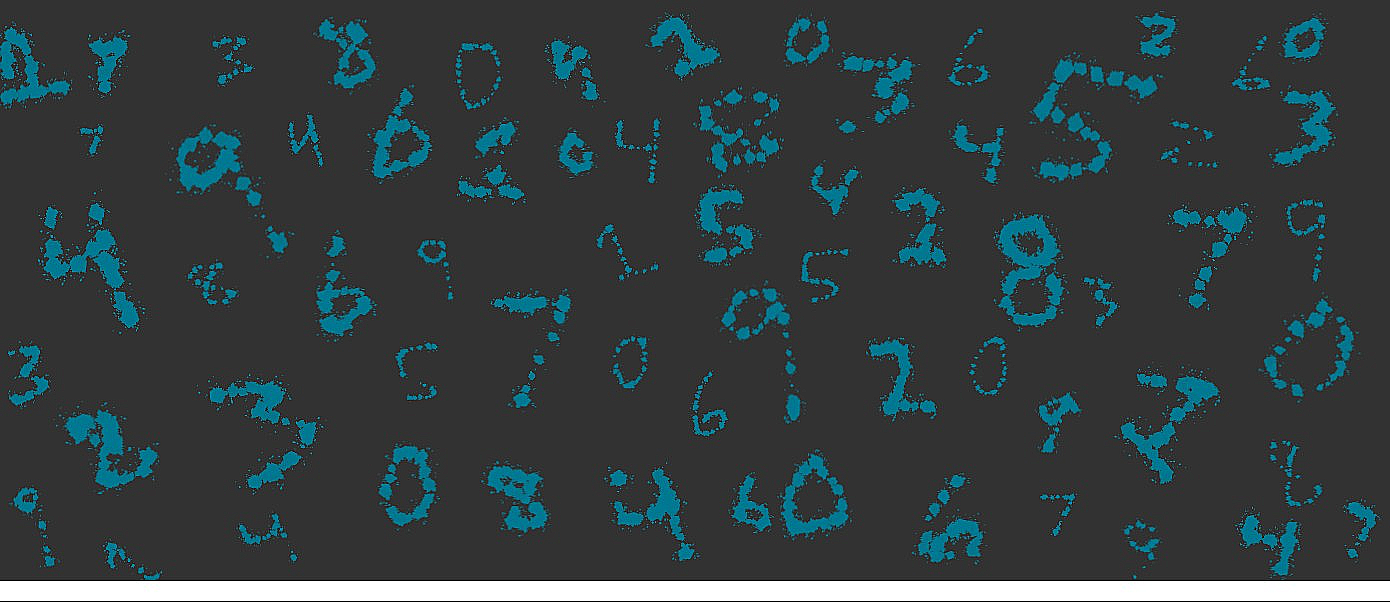
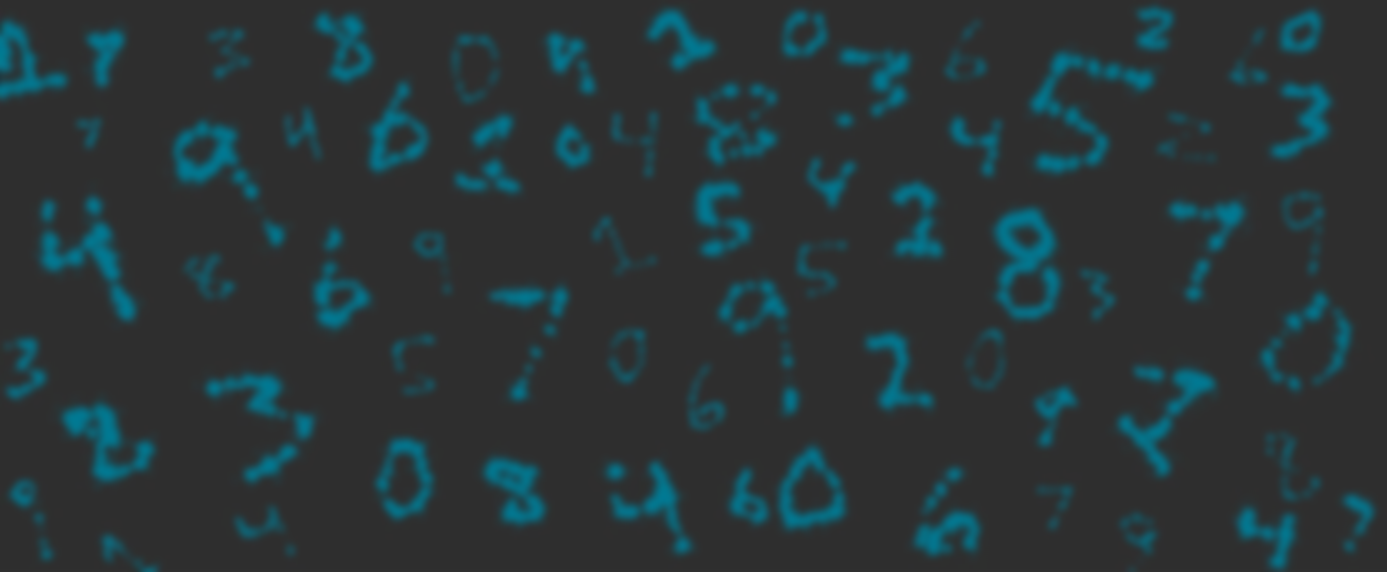
number is generating

diff --git a/numGenScript.js b/numGenScript.js
@@ -1,0 +1,40 @@
+
+  window.onload = function() {
+    let slotElements = document.querySelectorAll(".slots");
+    let numberPlaceholder = document.getElementById("numberPlaceholder");
+
+    let numList = ["1", "2", "3","4","5","6","7","8","9","10"];
+    let randomNumber;
+  
+ 
+  
+    // Handle the click event for the generateButton
+    const generateButton = document.getElementById("generateButton");
+    generateButton.addEventListener("click", generateRandomNumber);
+  
+    // Initial random number placeholder
+    setRandomNumberPlaceholder();
+
+    function generateRandomNumber() {
+        if (numList.length >= 1000) {
+          randomNumberField.innerText = "You have run out of original numbers! Please close and reopen the application.";
+        } else {
+          const rand = Math.floor(Math.random() * 1000) + 1;
+          let newRandomNumber;
+          do {
+            newRandomNumber = Math.floor(Math.random() * 1000) + 1;
+          } while (numList.includes(newRandomNumber));
+      
+          randomNumber = newRandomNumber;
+          randomNumberField.innerText = String(randomNumber);
+          if (isInNumericalOrderIgnoreZeros(numList)) {
+            console.log("List is in order, ignoring 0s.");
+          }
+        }
+      }
+      
+  };
+
+  
+  
+  

diff --git a/numGenStyle.css b/numGenStyle.css
@@ -51,7 +51,7 @@ body, html{
     font-size: 18px;
 }
 
-#generateButton:hover, #welcomeText:hover{
+#generateButton:hover, #welcomeText:hover, .slots:hover{
     border: solid 2px #C1292E;
     transition: .4s ease-in-out;
 }
@@ -62,9 +62,12 @@ body, html{
 
 #welcomeDiv{
     background-image: url(images/backgroundImg.png);
+    background-repeat: no-repeat;
+    background-size: cover;
     width: 100%;
-    height: 600px;
-    filter: blur(4px);
+    height: 660px;
+    border-bottom: solid 5px #C1292E;
+    margin-bottom: 40px;
 }
 
 
@@ -75,7 +78,14 @@ body, html{
 }
 
 .slots{
-    width: 90px;
+    width: 70px;
     margin-left: 35px;
+    border: solid 2px #333232;
+    background-color: #ECECE9;
+    padding:10px;
+}
+
+#numberPlaceholderDiv{
+    border: solid 2px red;
 }
 

diff --git a/indexNumberGen.html b/indexNumberGen.html
@@ -18,6 +18,9 @@
 <div id="buttonDiv">
 <button id="generateButton" style="margin: 10px;">Generate Start Number</button>
 </div>
+<div id="numberPlaceholderDiv">
+    <span id="numberPlaceholder"> placeholder for number</span>
+</div>
         <div id="inputBoxes">
             <input type="text" class="slots" id="slot1" placeholder="1">
             <input type="text" class="slots" id="slot2" placeholder="1000">
